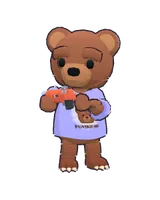
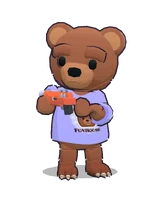
派对突击：角色仓库精简为 8 个基础角色，每个加 4 款换色皮肤（迷彩/黑金/樱粉/冰蓝）+ 其余 18 个造型作为模型皮肤

Changed region(s): [[0.2188, 0.09, 0.8125, 0.9]]

diff --git a/party/js/roster.js b/party/js/roster.js
@@ -9,22 +9,44 @@ export const BOT_CHARS = [
 ];
 const D = './assets/chars2/';
 const W = (id, name, ver, drop) => ({ id, url: D + id + '.glb', name, ver, drop, thumb: D + 'thumbs/' + id + '.webp' });
-// versions A..D of the look study, de-duplicated (E 科幻 dropped by the user's call)
-export const WARDROBE = [
-  W('ActionFigure', '动作英雄', 'A', ['Cigar']), W('Superhero', '超级英雄', 'A'), W('Protagonist_A', '鸭舌帽女孩', 'A'), W('Protagonist_B', '橙帽少年', 'A'),
-  W('Driver', '墨镜车手', 'A'), W('Ninja', '忍者', 'A'), W('Engineer', '护目镜工匠', 'A'), W('Ranger', '游侠', 'A', ['Quiver']), W('Rogue_Hooded', '兜帽侠', 'A'),
-  W('Survivalist', '老兵', 'B'), W('Marksman', '狙击手', 'B', ['Ghillie', 'FaceNet']), W('Hiker', '登山客', 'B'),
-  W('Animatronic_Normal', '玩偶熊', 'C'), W('MonsterCostume', '恐龙装', 'C'), W('Helper_A', '小精灵·辫子', 'C', ['Hat']), W('Helper_B', '小精灵·短发', 'C', ['Hat']),
-  W('Clown', '小丑', 'C'), W('Witch', '眼镜女孩', 'C', ['Witch_Hat']), W('Farmer_B', '农夫', 'C'), W('Robot_One', '小机器人', 'C'), W('Druid', '鹿角德鲁伊', 'C'),
-  W('MagicalGirl', '魔法少女', 'D'), W('Tiefling', '恶魔少女', 'D', ['Tail']), W('Rogue', '冒险者', 'D'), W('Mage', '长发法师', 'D', ['Mage_Hat']), W('Cleric', '修士', 'D', ['HolyWater']),
+// 8 base looks (男: 橙帽少年 / 老兵 / 冒险者 / 动作英雄 / 农夫, 女: 鸭舌帽女孩 / 眼镜女孩 / 魔法少女). Each has 5 recolor choices
+// (原版 + 4 palette skins of its own atlas) and some model skins (other KayKit looks, loaded from their own glb).
+const S = (id, name, drop) => ({ ...W(id, name, '', drop), skinOnly: true });
+export const SKIN_MODELS = [
+  S('Robot_One', '小机器人'), S('Clown', '小丑'),
+  S('Marksman', '狙击手', ['Ghillie', 'FaceNet']), S('Hiker', '登山客'), S('Engineer', '护目镜工匠'),
+  S('Druid', '鹿角德鲁伊'), S('Ranger', '游侠', ['Quiver']), S('Rogue_Hooded', '兜帽侠'),
+  S('Superhero', '超级英雄'), S('Ninja', '忍者'), S('Driver', '墨镜车手'),
+  S('Animatronic_Normal', '玩偶熊'), S('MonsterCostume', '恐龙装'),
+  S('Helper_A', '小精灵·辫子', ['Hat']), S('Helper_B', '小精灵·短发', ['Hat']),
+  S('Mage', '长发法师', ['Mage_Hat']), S('Cleric', '修士', ['HolyWater']),
+  S('Tiefling', '恶魔少女', ['Tail']),
 ];
-export const REG = Object.fromEntries([...BOT_CHARS, ...WARDROBE].map(e => [e.id, e]));
-const K_PICK = 'party.char', K_DEL = 'party.charDel';
+const B = (id, name, ver, drop, models) => ({ ...W(id, name, ver, drop), models });
+export const WARDROBE = [
+  B('Protagonist_B', '橙帽少年', '男', undefined, ['Robot_One', 'Helper_B']),
+  B('Survivalist', '老兵', '男', undefined, ['Marksman', 'Hiker', 'Engineer']),
+  B('Rogue', '冒险者', '男', undefined, ['Druid', 'Ranger', 'Rogue_Hooded']),
+  B('ActionFigure', '动作英雄', '男', ['Cigar'], ['Superhero', 'Ninja', 'Driver']),
+  B('Farmer_B', '农夫', '男', undefined, ['Animatronic_Normal', 'MonsterCostume']),
+  B('Protagonist_A', '鸭舌帽女孩', '女', undefined, ['Helper_A', 'Clown']),
+  B('Witch', '眼镜女孩', '女', ['Witch_Hat'], ['Mage', 'Cleric']),
+  B('MagicalGirl', '魔法少女', '女', undefined, ['Tiefling']),
+];
+// recolor skins: our own palette remaps of the base character's KayKit atlas (pre-baked 256px lossless WebP, assets/chars2/skins/)
+export const SKINS = [
+  { id: '', name: '原版' }, { id: 'camo', name: '迷彩' }, { id: 'blackgold', name: '黑金' }, { id: 'sakura', name: '樱粉' }, { id: 'ice', name: '冰蓝' },
+];
+export const skinTexUrl = (id, look) => look ? D + 'skins/' + id + '_' + look + '.webp' : '';
+export const skinThumb = (id, look) => look ? D + 'thumbs/' + id + '_' + look + '.webp' : D + 'thumbs/' + id + '.webp';
+export const REG = Object.fromEntries([...BOT_CHARS, ...WARDROBE, ...SKIN_MODELS].map(e => [e.id, e]));
+const K_PICK = 'party.char', K_DEL = 'party.charDel', K_SKIN = 'party.skin';
 const ls = { get(k) { try { return localStorage.getItem(k); } catch (e) { return null; } }, set(k, v) { try { localStorage.setItem(k, v); } catch (e) { } } };
-export function deletedIds() { try { const a = JSON.parse(ls.get(K_DEL) || '[]'); return Array.isArray(a) ? a.filter(id => REG[id] && !REG[id].old) : []; } catch (e) { return []; } }
+const BASE = new Set(WARDROBE.map(e => e.id)), MODEL_BASE = Object.fromEntries(WARDROBE.flatMap(e => e.models.map(m => [m, e.id])));
+export function deletedIds() { try { const a = JSON.parse(ls.get(K_DEL) || '[]'); return Array.isArray(a) ? a.filter(id => BASE.has(id)) : []; } catch (e) { return []; } }
 export function visibleWardrobe() { const del = new Set(deletedIds()); const v = WARDROBE.filter(e => !del.has(e.id)); return v.length ? v : [WARDROBE[0]]; }
 export function pickedId() { const id = ls.get(K_PICK), v = visibleWardrobe(); return v.some(e => e.id === id) ? id : v[0].id; }
-export function setPicked(id) { if (REG[id] && !REG[id].old) ls.set(K_PICK, id); }
+export function setPicked(id) { if (BASE.has(id)) ls.set(K_PICK, id); }
 // returns false when it would leave the wardrobe empty
 export function deleteChar(id) {
   const v = visibleWardrobe(); if (v.length <= 1 || !v.some(e => e.id === id)) return false;
@@ -34,3 +56,15 @@ export function deleteChar(id) {
   return true;
 }
 export function restoreAll() { ls.set(K_DEL, '[]'); }
+// picked skin per base character: {"Rogue":"camo", "Survivalist":"Hiker", ...}; '' = 原版; unknown / stale values fall back to 原版
+function skinMap() { try { const o = JSON.parse(ls.get(K_SKIN) || '{}'); return o && typeof o === 'object' && !Array.isArray(o) ? o : {}; } catch (e) { return {}; } }
+// all choices for a base: 原版, 4 recolors, then its model skins ({ id: model id, model: true })
+export function skinsOf(base) { const e = WARDROBE.find(w => w.id === base); return e ? [...SKINS, ...e.models.map(m => ({ id: m, name: REG[m].name, model: true }))] : [SKINS[0]]; }
+export function pickedSkin(base = pickedId()) { const v = skinMap()[base]; return v && skinsOf(base).some(k => k.id === v) ? v : ''; }
+export function setSkin(base, skin) { if (!BASE.has(base) || !skinsOf(base).some(k => k.id === skin)) return; const m = skinMap(); if (skin) m[base] = skin; else delete m[base]; ls.set(K_SKIN, JSON.stringify(m)); }
+// what actually gets loaded: a model skin swaps the glb, a recolor swaps the atlas of the base glb
+export function resolveLook(base, skin) { return REG[skin]?.skinOnly ? { char: skin, look: '' } : { char: base, look: skin || '' }; }
+export function pickedLook() { const b = pickedId(); return resolveLook(b, pickedSkin(b)); }
+export const skinThumbOf = (base, skin) => REG[skin]?.skinOnly ? REG[skin].thumb : skinThumb(base, skin);
+// one-time migration: an older save picked a look that is now a model skin -> pick its base with that skin
+{ const old = ls.get(K_PICK); if (old && MODEL_BASE[old]) { ls.set(K_PICK, MODEL_BASE[old]); setSkin(MODEL_BASE[old], old); } }

diff --git a/party/js/critter.js b/party/js/critter.js
@@ -11,7 +11,7 @@ import { Builder, M } from './soldier.js';
 import { makeBow } from './bow.js';
 import { STYLE } from './charstyle.js';          // optional procedural look (null = the KayKit models as shipped)
 import { buildStyled, reshapeRig, makeGy } from './charkit.js';
-import { BOT_CHARS, REG, pickedId } from './roster.js';
+import { BOT_CHARS, REG, pickedLook, skinTexUrl } from './roster.js';
 export { toonRamp, critterMaterial, BODY_COLORS } from './bean.js';
 const { toonRamp, critterMaterial } = BEAN;
 
@@ -32,7 +32,7 @@ const TEAM_TINT = { blue: 0x7fb4ff, red: 0xff8a80 };
 
 // hit boxes (main.js): default = the measured KayKit numbers; a style re-measures its own body
 export const HIT = { top: 0.92, ctop: 0.72, hh: 0.80, chh: 0.84, hw: 0.4 };
-const T = { chars: {}, blasters: {}, clips: {}, mats: {}, gunMat: null, outline: null, gunQ: null, ok: false };
+const T = { chars: {}, looks: {}, blasters: {}, clips: {}, mats: {}, gunMat: null, outline: null, gunQ: null, ok: false };
 
 function toonVC(tint) {
   const k = 'vc' + (tint || '');
@@ -383,19 +383,32 @@ function prepChar(n, sc) {
 async function loadChar(id) {
   const e = REG[id]; if (!e) throw new Error('unknown character ' + id);
   const gl = await LOADER.loadAsync(e.url); const sc = gl.scene; mergeSkinned(sc, e.drop); prepChar(id, sc);
+  sc.traverse(o => { if (o.isSkinnedMesh && o.material.map && !T.chars[id].map) T.chars[id].map = o.material.map; });   // the character's atlas (skins swap it)
+}
+// skins: a pre-baked recolor of the character's own atlas; swapped in for that atlas only (same material count, same draw calls)
+const TEXLOADER = new THREE.TextureLoader(), LOOKING = {};
+function ensureLook(id, look) {
+  const k = id + '|' + look;
+  if (!look || T.looks[k]) return Promise.resolve(true);
+  return LOOKING[k] || (LOOKING[k] = ensureChar(id).then(ok => ok && TEXLOADER.loadAsync(skinTexUrl(id, look)).then(tex => {
+    const a = T.chars[id].map; tex.flipY = false; tex.colorSpace = a ? a.colorSpace : THREE.SRGBColorSpace;
+    if (a) { tex.wrapS = a.wrapS; tex.wrapT = a.wrapT; tex.magFilter = a.magFilter; tex.minFilter = a.minFilter; tex.anisotropy = a.anisotropy; }
+    T.looks[k] = tex; return true;
+  })).catch(err => { console.warn('skin failed to load', k, err); delete LOOKING[k]; return false; }));
 }
 export const hasChar = (id) => !!T.chars[id];
 // lazy load: the match / wardrobe preview awaits this before creating a soldier with that character
-export function ensureChar(id) {
+export function ensureChar(id, look) {
+  if (look) return Promise.all([ensureChar(id), ensureLook(id, look)]).then(r => r[0]);
   if (T.chars[id] || !REG[id]) return Promise.resolve(!!T.chars[id]);
   return LOADING[id] || (LOADING[id] = loadChar(id).then(() => true, (err) => { console.warn('character failed to load', id, err); delete LOADING[id]; return false; }));
 }
 export const loadedChars = () => Object.keys(T.chars);
 async function load() {
   const L = LOADER;
-  const pick = pickedId();
+  const pick = pickedLook();
   const [anims, ...bl] = await Promise.all([L.loadAsync(ASSETS.dir + ASSETS.anims), ...BLASTERS.map(b => L.loadAsync(BASE + 'blaster-' + b + '.glb')),
-    ...CHARS.map(n => ensureChar(n)), ensureChar(pick)]);
+    ...CHARS.map(n => ensureChar(n)), ensureChar(pick.char, pick.look)]);
   for (const n of CHARS) if (!T.chars[n]) throw new Error('bot character missing ' + n);
   const rest = bl.slice(0, BLASTERS.length);
   const byName = Object.fromEntries(anims.animations.map(a => [a.name, a]));
@@ -519,8 +532,11 @@ const clamp = (v, a, b) => v < a ? a : v > b ? b : v, lerp = (a, b, k) => a + (b
 export function createSoldier(skin = 'party', variant) {
   if (!T.ok) return BEAN.createSoldier(skin, variant);
   const team = skin === 'blue' || skin === 'red';
-  let char = variant?.char ?? (skin === 'player' ? pickedId() : nextChar());
+  const PL = skin === 'player' && !variant?.char ? pickedLook() : null;     // the 角色仓库 pick: base + skin (recolor or model)
+  let char = variant?.char ?? (PL ? PL.char : nextChar());
   if (!T.chars[char]) { ensureChar(char); char = CHARS[0]; }     // not loaded yet (callers await ensureChar first)
+  const look = variant?.look ?? (PL && PL.char === char ? PL.look : ''), lookTex = look ? T.looks[char + '|' + look] : null;
+  if (look && !lookTex) ensureLook(char, look);                   // not loaded yet: original atlas this time
   let hat = variant?.hat ?? (skin === 'player' || team ? 'cone' : pick(HATS));
   if (CAPPED.has(char)) hat = 'none';
   const hatColor = variant?.hatColor ?? (skin === 'player' ? 0xff4d6d : team ? TEAM_HAT[skin] : pick(HAT_COLORS));
@@ -535,7 +551,7 @@ export function createSoldier(skin = 'party', variant) {
   model.traverse(o => { if (o.isSkinnedMesh) meshes.push(o); else if (o.isMesh) rigid.push(o); });
   const noOl = new Set(meshes.filter(m => m.material.name === 'GlowVC' || m.material.name === 'DecoVC'));
   const vary = REG[char]?.vary || 0;
-  for (const m of [...meshes, ...rigid]) m.material = m.material.name === 'GlowVC' ? glowVC : m.material.name === 'Glow' ? glowMat : m.material.vertexColors ? toonVC(tint) : toonOf(m.material.map, tint, vary);
+  for (const m of [...meshes, ...rigid]) m.material = m.material.name === 'GlowVC' ? glowVC : m.material.name === 'Glow' ? glowMat : m.material.vertexColors ? toonVC(tint) : toonOf(lookTex && m.material.map === C.map ? lookTex : m.material.map, tint, vary);
   for (const m of meshes) {
     m.computeBoundingSphere(); if (noOl.has(m)) { m.boundingSphere.radius *= 1.7; continue; } m.boundingSphere.radius *= 1.7;     // room for poses (lying down, arms up)
     const ol = new THREE.SkinnedMesh(m.geometry, T.outline); ol.bind(m.skeleton, m.bindMatrix); ol.boundingSphere = m.boundingSphere;
@@ -582,7 +598,7 @@ export function createSoldier(skin = 'party', variant) {
   A.idle.time = Math.random() * T.clips.idle.duration;
 
   g.userData = {
-    gunPivot, skin, char, hat, hatColor, exColor, gearKey: '0|0|0', gearMesh: null, gearOl: null, gun: gunId, root, model, bones, rest, mixer, A, meshes, outlines, extras, gunMesh: gun, bow, hatMesh, muzzle, blob, puffs,
+    gunPivot, skin, char, look: lookTex ? look : '', hat, hatColor, exColor, gearKey: '0|0|0', gearMesh: null, gearOl: null, gun: gunId, root, model, bones, rest, mixer, A, meshes, outlines, extras, gunMesh: gun, bow, hatMesh, muzzle, blob, puffs,
     mesh: meshes[0], phase: Math.random() * 6, moveK: 0, crouchK: 0, aimK: 0, fullK: 0, full: null, kick: 0, t: Math.random() * 10, pitch: 0, lo: false, acc: 0, relK: 0,
     tris: C.tris,
     // motion state (see animateSoldier): measured ground velocity, gait phase, run blend, hip twist for strafing, smoothed yaw / lean,

diff --git a/party/js/wardrobe.js b/party/js/wardrobe.js
@@ -1,10 +1,10 @@
-// 角色仓库 (wardrobe): pick the player's character from the A–D looks, delete ones you don't want (long-press, or 编辑 + ✕),
+// 角色仓库 (wardrobe): pick the player's character from the 6 base looks, then one of its 5 skins (原版 + 4 recolors), delete ones you don't want (long-press, or 编辑 + ✕),
 // restore deleted ones. Choice and deletions live in localStorage (roster.js). The 3D preview loads only the shown model.
 import * as THREE from 'three';
 import { createSoldier, animateSoldier, ensureChar } from './critter.js';
-import { WARDROBE, visibleWardrobe, pickedId, setPicked, deleteChar, deletedIds, restoreAll, REG } from './roster.js';
+import { WARDROBE, SKINS, visibleWardrobe, pickedId, setPicked, pickedSkin, setSkin, skinsOf, skinThumbOf, resolveLook, deleteChar, deletedIds, restoreAll, REG } from './roster.js';
 
-let longFired = false, dlgAt = 0, el = null, grid, prevCv, prevName, btnEdit, btnRestore, dlg, toastEl, editing = false;
+let longFired = false, dlgAt = 0, el = null, grid, skinRow, prevCv, prevName, btnEdit, btnRestore, dlg, toastEl, editing = false;
 let R = null, scene, cam, fig = null, figId = '', raf = 0, last = 0, spin = 0, toastT = 0;
 
 function build() {
@@ -12,11 +12,12 @@ function build() {
   el.innerHTML = `<div class="wdHead"><button class="wdBack" id="wdBack">‹ 返回</button><h2>角色仓库</h2>
       <button class="wdBtn" id="wdEdit">编辑</button><button class="wdBtn" id="wdRestore">恢复已删除</button></div>
     <div class="wdBody"><div class="wdPrev"><canvas id="wdCanvas"></canvas><div class="wdName" id="wdName"></div><div class="wdHint">点选角色 · 长按删除</div></div>
-      <div class="wdGrid" id="wdGrid"></div></div>
+      <div class="wdRight"><div class="wdGrid" id="wdGrid"></div>
+        <div class="wdSkinBox"><div class="wdSkinT">皮<br>肤</div><div class="wdSkins" id="wdSkins"></div></div></div></div>
     <div class="wdDlg hidden" id="wdDlg"><div class="wdBox"><p id="wdMsg"></p><div class="wdRow"><button id="wdNo">取消</button><button id="wdYes" class="danger">删除</button></div></div></div>
     <div class="wdToast hidden" id="wdToast"></div>`;
   (document.getElementById('lobby') || document.body).appendChild(el);     // inside the lobby: the ⤢ / ✕ buttons stay on top
-  grid = el.querySelector('#wdGrid'); prevCv = el.querySelector('#wdCanvas'); prevName = el.querySelector('#wdName');
+  grid = el.querySelector('#wdGrid'); skinRow = el.querySelector('#wdSkins'); prevCv = el.querySelector('#wdCanvas'); prevName = el.querySelector('#wdName');
   btnEdit = el.querySelector('#wdEdit'); btnRestore = el.querySelector('#wdRestore'); dlg = el.querySelector('#wdDlg'); toastEl = el.querySelector('#wdToast');
   el.querySelector('#wdBack').onclick = close;
   btnEdit.onclick = () => { editing = !editing; render(); };
@@ -24,6 +25,11 @@ function build() {
     const n = deletedIds().length; if (!n) return;
     ask(`恢复已删除的 ${n} 个角色？`, '恢复', () => { restoreAll(); render(); toast(`已恢复 ${n} 个角色`); });
   };
+  skinRow.addEventListener('click', (e) => {
+    const c = e.target.closest('.wdSkin'); if (!c) return;
+    const id = pickedId(), look = c.dataset.look; if (look === pickedSkin(id)) return;
+    setSkin(id, look); render(); dispatchEvent(new Event('party:char'));
+  });
   el.querySelector('#wdNo').onclick = () => { if (performance.now() - dlgAt > 450) hideDlg(); };
   // grid: tap = pick, long-press (or ✕ in edit mode) = delete
   let pressT = 0, pressId = '';
@@ -62,15 +68,19 @@ function render() {
   btnRestore.textContent = nDel ? `恢复已删除(${nDel})` : '恢复已删除'; btnRestore.disabled = !nDel;
   grid.innerHTML = vis.map(e => `<div class="wdCard${e.id === pick ? ' on' : ''}" data-id="${e.id}"><img src="${e.thumb}" alt="" draggable="false" loading="lazy">
     <span class="wdN">${e.name}</span><span class="wdV">${e.ver}</span>${vis.length > 1 ? '<button class="wdDel" aria-label="删除">✕</button>' : ''}</div>`).join('');
-  prevName.textContent = REG[pick].name;
-  showFig(pick);
+  const look = pickedSkin(pick);
+  const all = skinsOf(pick);
+  skinRow.innerHTML = all.map(k => `<button class="wdSkin${k.id === look ? ' on' : ''}${k.model ? ' model' : ''}" data-look="${k.id}"><img src="${skinThumbOf(pick, k.id)}" alt="" draggable="false" loading="lazy"><span>${k.name}</span></button>`).join('');
+  prevName.textContent = REG[pick].name + (look ? ' · ' + all.find(k => k.id === look).name : '');
+  const on = skinRow.querySelector('.on'); if (on) { const l = on.offsetLeft - skinRow.offsetLeft; if (l < skinRow.scrollLeft || l + on.offsetWidth > skinRow.scrollLeft + skinRow.clientWidth) skinRow.scrollLeft = l - 8; }
+  const L = resolveLook(pick, look); showFig(L.char, L.look);
 }
-async function showFig(id) {
-  if (figId === id) return; figId = id;
+async function showFig(id, look) {
+  const key = id + '|' + look; if (figId === key) return; figId = key;
   if (!R) return;
-  const ok = await ensureChar(id); if (!ok || figId !== id) return;
+  const ok = await ensureChar(id, look); if (!ok || figId !== key) return;
   if (fig) scene.remove(fig);
-  fig = createSoldier('player', { char: id, gun: 'h' }); fig.rotation.y = Math.PI + 0.35; if (fig.userData.blob) fig.userData.blob.visible = true; scene.add(fig);
+  fig = createSoldier('player', { char: id, look, gun: 'h' }); fig.rotation.y = Math.PI + 0.35; if (fig.userData.blob) fig.userData.blob.visible = true; scene.add(fig);
 }
 function initGL() {
   try { R = new THREE.WebGLRenderer({ canvas: prevCv, alpha: true, antialias: true }); } catch (e) { R = null; return; }

diff --git a/party/js/main.js b/party/js/main.js
@@ -8,7 +8,7 @@ import { animateDeath, resetSoldier, animateSoldier, soldierTris, createSoldier,
 import { toonRamp, HIT } from './critter.js';
 import { lobbyChars } from './lobbychars.js';
 import { openWardrobe } from './wardrobe.js';
-import { pickedId } from './roster.js';
+import { pickedLook } from './roster.js';
 import { ensureChar } from './critter.js';
 import { playerJump, airStep, updateDrop } from './drop.js';
 import { partyLook, toonify } from './party.js';
@@ -203,7 +203,7 @@ let starting = false;
 async function startWithChar(opts) {
   if (starting) return; starting = true;
   const b = $('btnStart'); const t = b.textContent; b.textContent = '加载中…';
-  try { await ensureChar(pickedId()); } finally { b.textContent = t; starting = false; }
+  try { const L = pickedLook(); await ensureChar(L.char, L.look); } finally { b.textContent = t; starting = false; }
   startMatch(opts);
 }
 G.startWithChar = startWithChar;
@@ -331,7 +331,7 @@ G.solidsNear = (pos) => {
   return out;
 };
 const thirdPerson = () => !!P.inCar || !!G.player?.air || (S.tp && !P.scoped);
-function makeBody() { if (P.body) scene.remove(P.body); P.body = createSoldier(G.mode === 'br' ? 'player' : G.player.team, { char: pickedId() }); P.body.visible = false; scene.add(P.body); $('bView')?.classList.toggle('on', !!S.tp); }
+function makeBody() { if (P.body) scene.remove(P.body); P.body = createSoldier(G.mode === 'br' ? 'player' : G.player.team, { ...pickedLook() }); P.body.visible = false; scene.add(P.body); $('bView')?.classList.toggle('on', !!S.tp); }
 function poseBody(dt, mx, mz, speed, seated) {
   const b = P.body; if (!b) return;
   b.visible = G.player.alive && thirdPerson() && !(P.inCar && (P.inCar.type === 'bus' || P.inCar.type === 'truck' || P.inCar.mesh?.userData.kenney));

diff --git a/party/index.html b/party/index.html
@@ -220,6 +220,15 @@ body.hudEdit #touch .sel{outline:3px dashed #ffd45c;outline-offset:3px}
 .wdName{position:absolute;left:10px;top:8px;font-size:18px;font-weight:900;text-shadow:0 2px 0 #1a1022}
 .wdHint{position:absolute;left:10px;bottom:6px;font-size:11px;opacity:.85}
 .wdGrid{flex:1;min-height:0;overflow-y:auto;display:grid;grid-template-columns:repeat(auto-fill,minmax(84px,1fr));gap:8px;align-content:start;padding:4px 2px;-webkit-overflow-scrolling:touch;touch-action:pan-y}
+.wdRight{flex:1;min-width:0;min-height:0;display:flex;flex-direction:column;gap:6px}
+.wdSkinBox{flex:none;display:flex;align-items:center;gap:8px;background:rgba(0,0,0,.18);border-radius:12px;padding:5px 6px}
+.wdSkinT{flex:none;font-size:12px;font-weight:900;line-height:1.25;opacity:.9;text-align:center}
+.wdSkins{flex:1;display:flex;gap:6px;overflow-x:auto;-webkit-overflow-scrolling:touch}
+.wdSkin{flex:1 0 58px;max-width:84px;border-radius:10px;border:2px solid transparent;background:rgba(255,255,255,.1);color:#fff;padding:2px 2px 3px;text-align:center}
+.wdSkin.on{border-color:#ffd84a;background:rgba(255,216,74,.22)}
+.wdSkin img{display:block;width:100%;aspect-ratio:1/1;object-fit:cover;object-position:50% 18%;pointer-events:none}
+.wdSkin span{display:block;font-size:11px;font-weight:800;white-space:nowrap;overflow:hidden;text-overflow:ellipsis}
+.wdSkin.model{background:rgba(120,200,255,.14)}
 .wdCard{position:relative;border-radius:12px;background:rgba(255,255,255,.1);border:2px solid transparent;padding:4px 4px 6px;text-align:center;user-select:none;-webkit-user-select:none;-webkit-touch-callout:none}
 .wdCard.on{border-color:#ffd84a;background:rgba(255,216,74,.22)}
 .wdCard img{display:block;width:100%;aspect-ratio:4/5;object-fit:contain;pointer-events:none}

diff --git a/party/js/lobbychars.js b/party/js/lobbychars.js
@@ -1,7 +1,7 @@
 // lobby: a little line-up of the party characters idling on the grass (own small canvas, only renders while the lobby is open)
 import * as THREE from 'three';
 import { createSoldier, animateSoldier, ensureChar } from './critter.js';
-import { pickedId } from './roster.js';
+import { pickedLook } from './roster.js';
 
 export function lobbyChars(lobby) {
   const cv = document.createElement('canvas'); cv.id = 'lobbyChars'; lobby.insertBefore(cv, lobby.children[2] || null);
@@ -28,8 +28,9 @@ export function lobbyChars(lobby) {
   });
   // the wardrobe changed the player's character: swap the front figure once its model is loaded
   async function refresh() {
-    const id = pickedId(); if (!(await ensureChar(id)) || id !== pickedId()) return;
-    const old = chars[0], g = createSoldier('player', { char: id });
+    const L = pickedLook(), same = () => { const n = pickedLook(); return n.char === L.char && n.look === L.look; };
+    if (!(await ensureChar(L.char, L.look)) || !same()) return;
+    const old = chars[0], g = createSoldier('player', { char: L.char, look: L.look });
     g.position.copy(old.position); g.rotation.copy(old.rotation); if (g.userData.blob) g.userData.blob.visible = true;
     scene.remove(old); scene.add(g); chars[0] = g;
   }

diff --git a/party/CREDITS.md b/party/CREDITS.md
@@ -15,8 +15,9 @@ Kenney 和 Kay Lousberg 都不要求署名，这里仍然注明以示感谢。
 | 文件 | 来源 | 作者 | 许可 |
 |---|---|---|---|
 | assets/chars2/anims2.glb | KayKit「Character Animations 1.1」(https://kaylousberg.itch.io/kaykit-character-animations) Rig_Medium 动作：Ranged_2H_Aiming / Ranged_2H_Reload / Ranged_1H_Aiming / Ranged_1H_Reload / Ranged_2H_Shoot、Idle_A、Death_A、Walking_A、Running_A、Jump_Idle、Running_HoldingRifle、Crouching、Sit_Chair_Idle、Cheering；合并成一个无网格动作文件并改名 | Kay Lousberg (www.kaylousberg.com) | CC0 1.0（assets/chars2/LICENSE-KayKit-CC0.txt） |
-| assets/chars2/*.glb（角色仓库 26 个角色：A 卡通英雄 / B 士兵 / C 软萌公仔 / D 动漫 四版去重，不含 E 科幻） | KayKit「Adventurers 2.0」(https://kaylousberg.itch.io/kaykit-adventurers) 与 KayKit Mystery Monthly 系列角色（收录于 The Complete KayKit Collection v6），经 GitHub 镜像 GeorgeQLe/assets-kaykit-3d-characters 下载；贴图缩到 256px WebP，去掉动画，运行时把各部件合并成一个蒙皮网格；部分去掉了尖帽/雪茄/箭袋等配件 | Kay Lousberg | CC0 1.0 |
+| assets/chars2/*.glb（角色仓库 26 个造型：8 个基础角色 + 18 个作为模型皮肤挂在基础角色下；原 A 卡通英雄 / B 士兵 / C 软萌公仔 / D 动漫 四版去重，不含 E 科幻） | KayKit「Adventurers 2.0」(https://kaylousberg.itch.io/kaykit-adventurers) 与 KayKit Mystery Monthly 系列角色（收录于 The Complete KayKit Collection v6），经 GitHub 镜像 GeorgeQLe/assets-kaykit-3d-characters 下载；贴图缩到 256px WebP，去掉动画，运行时把各部件合并成一个蒙皮网格；部分去掉了尖帽/雪茄/箭袋等配件 | Kay Lousberg | CC0 1.0 |
 | assets/chars2/thumbs/*.webp | 本项目用上面的模型渲染的缩略图 | — | 同上 |
+| assets/chars2/skins/*.webp（换色皮肤：迷彩 / 黑金 / 樱粉 / 冰蓝） | 本项目对上面 8 个基础角色各自的 KayKit 贴图做的调色（只改衣服/帽子/配饰色块，保留皮肤、脸、眼睛、头发和贴纸），预烘焙为 256px 无损 WebP | 本项目（基于 Kay Lousberg 的 CC0 贴图） | CC0 1.0 |
 
 动作：所有角色（含 4 个机器人角色）共用 anims2.glb 的自然持枪动作（双手步枪/单手手枪/持枪奔跑/空手），不再使用旧的 anims.glb；红色圣诞帽女孩（旧 rogue.glb）和骷髅角色已移除。
 所有角色均为 KayKit 通用原创造型，没有任何 Supercell / Riot / 香肠派对 角色。
